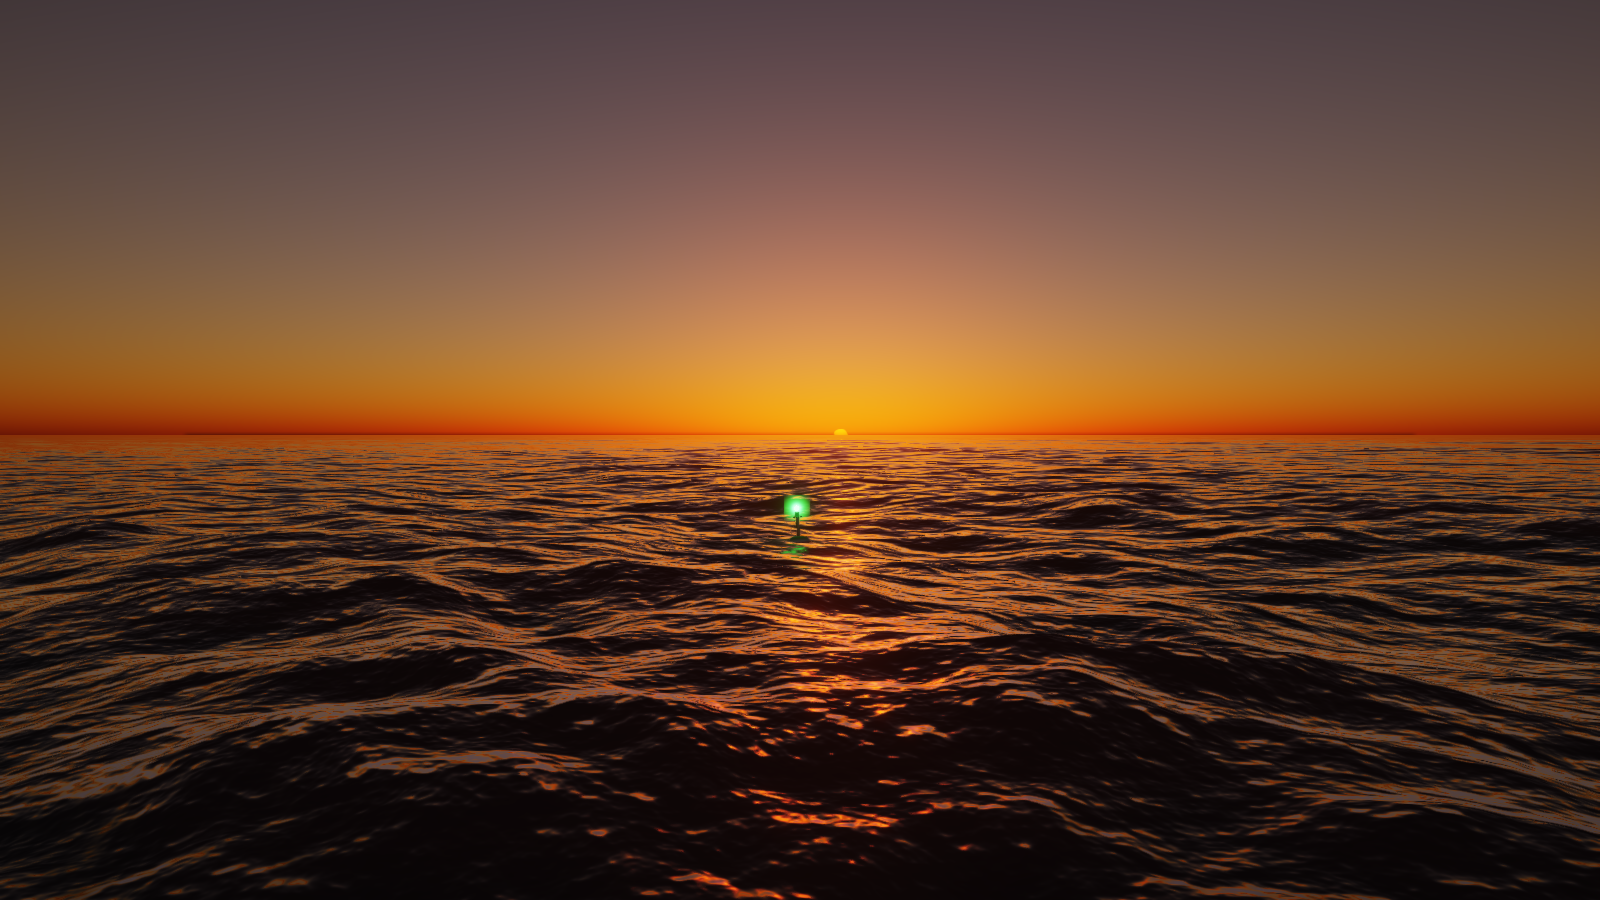
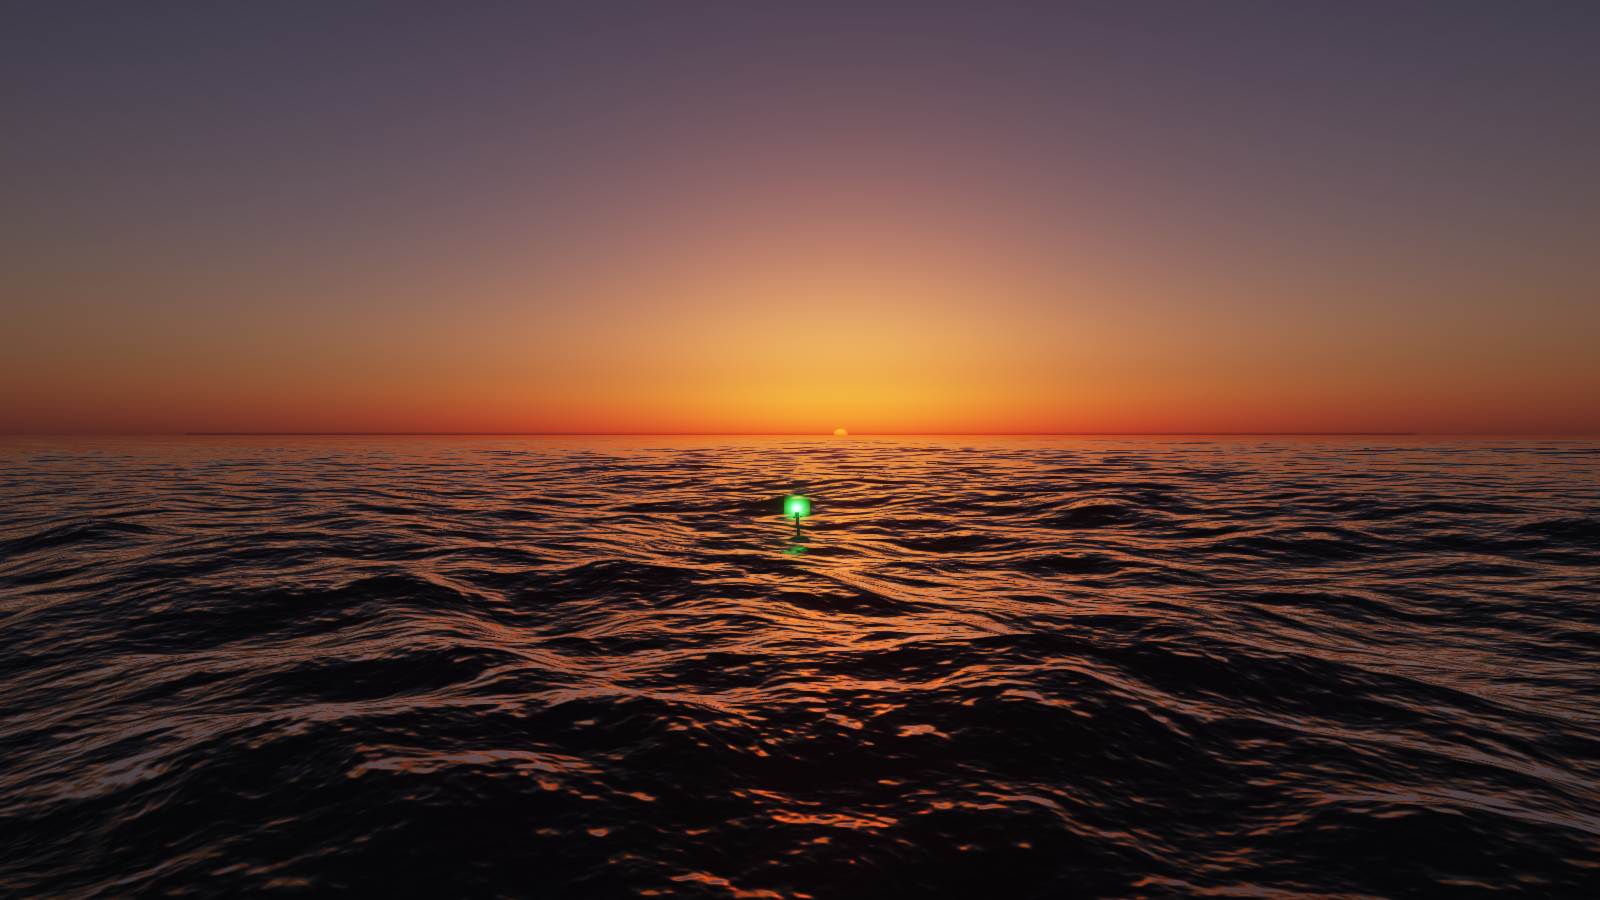
+Realism: Darken the sky opposite the sun(Opus5.5)
Introduce a thin haze layer aloft and optional multiple-scattering LUT to darken the sky opposite the sun (Earth's shadow / anti-twilight). Changes include:

- README + new screenshot showing Earth's shadow.
- Sky.hlsl: add AloftDensity, extend OpticalDepth to vec4, AloftBeta/Extinction, multi-scatter LUT generator (CSMsLut), MultiScatterPsi and incorporate aloft & multi-scatter into MarchScattering.
- Ocean.hlsl: sample sky at adjusted height/mip for horizon under low sun.
- App.cpp: extend TimePreset with aloft/multiScatter, update ExtraTransmittance to include aloft, wire sky params, add EXIT button, update sunset preset.
- GpuContext.h/Sky.h/Sky.cpp: allocate msLut, new descriptor slots, create PSO for LUT, manage resource state and dispatch generation before sky cube bake.

Purpose: produce more realistic dusk/twilight (dusky opposite-sun sky and muted anti-twilight) by modeling an upper aerosol layer and adding multi-scatter contribution.

diff --git a/src/App.cpp b/src/App.cpp
@@ -142,7 +142,9 @@ namespace
         float moonElev, moonAz;
         float exposure;
         float haze = 1.0f;      // aerosol (Mie) turbidity multiplier
-        float lowSun = 0.0f;    // horizon-sun optics: ozone, refraction, scintillation
+        float lowSun = 0.0f;    // horizon-sun optics: ozone, refraction, scintillation,
+                                // multiple scattering in the sky
+        float aloft = 0.0f;     // haze layer aloft (~4 km): peak scattering at 550 nm, 1/m
     };
     const TimePreset kTimes[] = {
         { "Early morning", 3.5f, 14.0f, -40.0f, 0.0f, 1.35f },
@@ -151,8 +153,11 @@ namespace
         { "Afternoon", 35.0f, -26.0f, -40.0f, 0.0f, 0.85f },
         { "Evening", 8.0f, 8.0f, -40.0f, 0.0f, 1.25f },
         // Disc centre on the horizon: half the sun has set. Its light crosses
-        // ~40 air masses of hazy maritime air, which is where the red comes from.
-        { "Sunset", 0.0f, 3.0f, -40.0f, 0.0f, 0.8f, 3.0f, 1.0f },
+        // ~40 air masses of hazy maritime air, which is where the red comes
+        // from. A haze layer aloft (~4 km, AOD 0.06; ~0.08 in all, typical
+        // over the sea) keeps the sky opposite the sun dusky: the light that
+        // reaches it skims the planet straight through that layer.
+        { "Sunset", 0.0f, 3.0f, -40.0f, 0.0f, 0.8f, 3.0f, 1.0f, 2.0e-5f },
         { "Late evening", -5.5f, 5.0f, 21.0f, -22.0f, 3.0f },
         { "Night", -30.0f, 0.0f, 43.0f, 12.0f, 5.0f },
     };
@@ -220,16 +225,20 @@ namespace
     // the same spherical atmosphere Sky.hlsl marches (so the sun and the sky
     // around it redden together): aerosol beyond the baseline haze ((haze - 1)
     // x BetaM, 1.2 km scale height, Angstrom exponent 1.3 = Sky.hlsl
-    // kHazeSpectrum) and ozone's Chappuis band (tent layer at 10-40 km). Both
-    // are negligible for a high sun; at the horizon the path through them is
-    // hundreds of kilometres long.
-    XMFLOAT3 ExtraTransmittance(float elevDeg, float haze, float ozone)
+    // kHazeSpectrum), the haze layer aloft (Gaussian about 4 km, Angstrom 1.0
+    // = Sky.hlsl AloftDensity / kAloftSpectrum) and ozone's Chappuis band
+    // (tent layer at 10-40 km). All are negligible for a high sun; at the
+    // horizon the path through them is hundreds of kilometres long.
+    XMFLOAT3 ExtraTransmittance(float elevDeg, const TimePreset& tp)
     {
-        if (haze <= 1.0f && ozone <= 0.0f)
+        const float haze = tp.haze, ozone = tp.lowSun, aloft = tp.aloft;
+        if (haze <= 1.0f && ozone <= 0.0f && aloft <= 0.0f)
             return XMFLOAT3(1.0f, 1.0f, 1.0f);
         const double Re = 6371e3, Ra = 6431e3, Hm = 1200.0;
         const double hazeSpectrum[3] = { 0.76, 1.0, 1.34 };
+        const double aloftSpectrum[3] = { 0.81, 1.0, 1.25 };
         const double betaM = 4.5e-6 * 1.1 * (haze - 1.0);
+        const double betaF = 1.1 * double(aloft);
         const double betaO[3] = { 0.650e-6 * ozone, 1.881e-6 * ozone, 0.085e-6 * ozone };
         double e = XMConvertToRadians(std::max(elevDeg, 0.0f));
         double dx = std::cos(e), dy = std::sin(e);
@@ -237,18 +246,22 @@ namespace
         double b = oy * dy;
         double tMax = -b + std::sqrt(b * b - (oy * oy - Ra * Ra));
         const int kSteps = 2000;
-        double dt = tMax / kSteps, odM = 0.0, odO = 0.0;
+        double dt = tMax / kSteps, odM = 0.0, odO = 0.0, odF = 0.0;
         for (int i = 0; i < kSteps; ++i)
         {
             double t = (i + 0.5) * dt;
             double px = dx * t, py = oy + dy * t;
             double h = std::sqrt(px * px + py * py) - Re;
             odM += std::exp(-h / Hm) * dt;
+            double xa = (h - 4000.0) / 1500.0;
+            odF += std::exp(-xa * xa) * dt;
             odO += std::max(0.0, 1.0 - std::abs(h - 25000.0) / 15000.0) * dt;
         }
-        return XMFLOAT3(float(std::exp(-betaM * hazeSpectrum[0] * odM - betaO[0] * odO)),
-                        float(std::exp(-betaM * hazeSpectrum[1] * odM - betaO[1] * odO)),
-                        float(std::exp(-betaM * hazeSpectrum[2] * odM - betaO[2] * odO)));
+        auto T = [&](int c)
+        {
+            return float(std::exp(-betaM * hazeSpectrum[c] * odM - betaF * aloftSpectrum[c] * odF - betaO[c] * odO));
+        };
+        return XMFLOAT3(T(0), T(1), T(2));
     }
 
     XMFLOAT3 Mul(XMFLOAT3 a, XMFLOAT3 b) { return XMFLOAT3(a.x * b.x, a.y * b.y, a.z * b.z); }
@@ -574,7 +587,7 @@ void App::UpdateLighting()
     // The moon takes over only once the whole sun disc is below the horizon.
     bool moonPrimary = tp.sunElev < -kSunDiscRadiusDeg;
 
-    XMFLOAT3 tSun = Mul(Transmittance(tp.sunElev), ExtraTransmittance(tp.sunElev, tp.haze, tp.lowSun));
+    XMFLOAT3 tSun = Mul(Transmittance(tp.sunElev), ExtraTransmittance(tp.sunElev, tp));
     XMFLOAT3 tMoon = Transmittance(tp.moonElev);
 
     sunShimmer = 0.0f;
@@ -589,10 +602,10 @@ void App::UpdateLighting()
         // A sun cut by the horizon lights the sea with only its visible part.
         float vis = DiscVisibleFraction(tp.sunElev, kSunDiscRadiusDeg);
         lightColor = XMFLOAT3(sunPower * vis * tSun.x, sunPower * vis * tSun.y, sunPower * vis * tSun.z);
-        // At the horizon the disc is dimmed so far that it is exposed close to
-        // the sky around it: a golden-orange disc, not a clipped white blob.
-        float disc = 1.0f + (0.35f - 1.0f) * tp.lowSun;
-        sunDiscColor = XMFLOAT3(420.0f * disc * tSun.x, 415.0f * disc * tSun.y, 405.0f * disc * tSun.z);
+        // A horizon sun needs no special exposure: the hazy air dims and
+        // reddens its disc to about the sky around it, so it shows as an
+        // orange disc graded to red at the waterline, not a clipped white blob.
+        sunDiscColor = XMFLOAT3(420.0f * tSun.x, 415.0f * tSun.y, 405.0f * tSun.z);
 
         if (tp.lowSun > 0.0f)
         {
@@ -603,7 +616,7 @@ void App::UpdateLighting()
             // Air mass falls steeply across the disc: its upper limb shines
             // brighter and yellower than the red lower edge. Optical-depth
             // change per disc radius, upward.
-            XMFLOAT3 tUp = Mul(Transmittance(tp.sunElev + r), ExtraTransmittance(tp.sunElev + r, tp.haze, tp.lowSun));
+            XMFLOAT3 tUp = Mul(Transmittance(tp.sunElev + r), ExtraTransmittance(tp.sunElev + r, tp));
             auto dTau = [](float up, float c) { return std::log(std::max(up, 1e-30f) / std::max(c, 1e-30f)); };
             sunTauGrad = XMFLOAT3(dTau(tUp.x, tSun.x), dTau(tUp.y, tSun.y), dTau(tUp.z, tSun.z));
             sunShimmer = tp.lowSun;
@@ -627,6 +640,8 @@ void App::UpdateLighting()
     skyParams.haze = tp.haze;
     skyParams.ozone = tp.lowSun;
     skyParams.cloudSunlit = tp.lowSun;
+    skyParams.aloft = tp.aloft;
+    skyParams.multiScatter = tp.lowSun;
 
     starIntensity = std::clamp((-tp.sunElev - 3.0f) / 6.0f, 0.0f, 1.0f);
     exposureBase = tp.exposure;
@@ -1034,6 +1049,10 @@ void App::BuildUi(float dt)
         requestFullscreenToggle = true;
     if (fullscreenPushed)
         ImGui::PopStyleColor(3);
+    ImGui::SameLine();
+    // Same exit as Esc: the main loop sees WM_QUIT once this frame is done.
+    if (ImGui::Button("EXIT"))
+        PostQuitMessage(0);
     ImGui::Separator();
 
     // Applied to every section header below, this frame only.

diff --git a/src/Sky.cpp b/src/Sky.cpp
@@ -13,6 +13,7 @@ namespace
         XMFLOAT3 moonDir; float moonI;
         float cloudCover; float res; uint32_t mipSrc; float pad;
         float haze; float ozone; float cloudSunlit; float pad2;
+        float aloft; float multiScatter; float pad3[2];
     };
 }
 
@@ -66,11 +67,33 @@ void Sky::Create(GpuContext& ctx, uint32_t resolution)
     u0.Texture2DArray.ArraySize = 6;
     ctx.Dev()->CreateUnorderedAccessView(cube.Get(), nullptr, &u0, ctx.SrvCpu(DescSlot::SkyGenUav));
 
+    // Multiple-scattering LUT. Each view goes into both slots of its pair, so
+    // a table bound at the pair's start reaches it as register 3.
+    msLut = ctx.CreateTexture2D(kMsLutSize, kMsLutSize, DXGI_FORMAT_R16G16B16A16_FLOAT,
+        D3D12_RESOURCE_FLAG_ALLOW_UNORDERED_ACCESS, D3D12_RESOURCE_STATE_UNORDERED_ACCESS,
+        1, 1, L"SkyMsLut");
+    msInSrvState = false;
+    for (uint32_t k = 0; k < 2; ++k)
+    {
+        D3D12_UNORDERED_ACCESS_VIEW_DESC lu = {};
+        lu.Format = DXGI_FORMAT_R16G16B16A16_FLOAT;
+        lu.ViewDimension = D3D12_UAV_DIMENSION_TEXTURE2D;
+        ctx.Dev()->CreateUnorderedAccessView(msLut.Get(), nullptr, &lu, ctx.SrvCpu(DescSlot::SkyMsUav + k));
+
+        D3D12_SHADER_RESOURCE_VIEW_DESC ls = {};
+        ls.Shader4ComponentMapping = D3D12_DEFAULT_SHADER_4_COMPONENT_MAPPING;
+        ls.Format = DXGI_FORMAT_R16G16B16A16_FLOAT;
+        ls.ViewDimension = D3D12_SRV_DIMENSION_TEXTURE2D;
+        ls.Texture2D.MipLevels = 1;
+        ctx.Dev()->CreateShaderResourceView(msLut.Get(), &ls, ctx.SrvCpu(DescSlot::SkyMsSrv + k));
+    }
+
     if (!psoGen)
     {
         std::wstring file = ctx.ShaderPath(L"Sky.hlsl");
         psoGen = ctx.CreateComputePso(ctx.CompileShader(file, "CSSkyGen", "cs_5_0").Get(), L"SkyGen");
         psoMip = ctx.CreateComputePso(ctx.CompileShader(file, "CSSkyMip", "cs_5_0").Get(), L"SkyMip");
+        psoMs = ctx.CreateComputePso(ctx.CompileShader(file, "CSMsLut", "cs_5_0").Get(), L"SkyMsLut");
 
         ComPtr<ID3DBlob> vs = ctx.CompileShader(file, "VSSky", "vs_5_0");
         ComPtr<ID3DBlob> ps = ctx.CompileShader(file, "PSSky", "ps_5_0");
@@ -106,13 +129,31 @@ void Sky::RecordGenerate(GpuContext& ctx, const Params& params)
     cb.haze = params.haze;
     cb.ozone = params.ozone;
     cb.cloudSunlit = params.cloudSunlit;
+    cb.aloft = params.aloft;
+    cb.multiScatter = params.multiScatter;
 
     cmd->SetComputeRootSignature(ctx.computeRS.Get());
-    cmd->SetPipelineState(psoGen.Get());
     void* p = nullptr;
     D3D12_GPU_VIRTUAL_ADDRESS va = ctx.AllocUpload(sizeof(SkyCB), &p);
     memcpy(p, &cb, sizeof(SkyCB));
     cmd->SetComputeRootConstantBufferView(0, va);
+
+    // The multiple-scattering LUT depends only on the atmosphere, not on the
+    // view: rebuild it first, then the cube march samples it.
+    if (params.multiScatter > 0.0f)
+    {
+        if (msInSrvState)
+            ctx.Transition(msLut.Get(), D3D12_RESOURCE_STATE_NON_PIXEL_SHADER_RESOURCE, D3D12_RESOURCE_STATE_UNORDERED_ACCESS);
+        cmd->SetPipelineState(psoMs.Get());
+        cmd->SetComputeRootDescriptorTable(6, ctx.SrvGpu(DescSlot::SkyMsUav));
+        cmd->Dispatch(kMsLutSize, kMsLutSize, 1);
+        ctx.Transition(msLut.Get(), D3D12_RESOURCE_STATE_UNORDERED_ACCESS, D3D12_RESOURCE_STATE_NON_PIXEL_SHADER_RESOURCE);
+        msInSrvState = true;
+    }
+
+    cmd->SetPipelineState(psoGen.Get());
+    if (msInSrvState)
+        cmd->SetComputeRootDescriptorTable(5, ctx.SrvGpu(DescSlot::SkyMsSrv));
     cmd->SetComputeRootDescriptorTable(6, ctx.SrvGpu(DescSlot::SkyGenUav));
     cmd->Dispatch((res + 7) / 8, (res + 7) / 8, 6);
 

diff --git a/src/Sky.h b/src/Sky.h
@@ -19,6 +19,8 @@ public:
         float haze = 1.0f;        // aerosol (Mie) turbidity multiplier
         float ozone = 0.0f;       // Chappuis-band absorption, 0 = off, 1 = standard column
         float cloudSunlit = 0.0f; // 1 = cirrus lit by the sunlight transmitted to its altitude
+        float aloft = 0.0f;       // haze layer aloft (~4 km): peak scattering at 550 nm, 1/m
+        float multiScatter = 0.0f; // 1 = add multiple scattering (LUT pass)
     };
 
     void Create(GpuContext& ctx, uint32_t resolution);
@@ -31,10 +33,14 @@ public:
     void Draw(GpuContext& ctx, D3D12_GPU_VIRTUAL_ADDRESS frameCB);
 
 private:
+    static constexpr uint32_t kMsLutSize = 32; // = kMsLutSize in Sky.hlsl
+
     ComPtr<ID3D12Resource> cube;
-    ComPtr<ID3D12PipelineState> psoGen, psoMip, psoDraw;
+    ComPtr<ID3D12Resource> msLut; // multiple-scattering LUT (altitude x sun angle)
+    ComPtr<ID3D12PipelineState> psoGen, psoMip, psoDraw, psoMs;
     uint32_t res = 128;
     uint32_t mips = 8;
     bool dirty = true;
     bool inSrvState = false;
+    bool msInSrvState = false;
 };

diff --git a/src/GpuContext.h b/src/GpuContext.h
@@ -37,6 +37,11 @@ namespace DescSlot
     constexpr uint32_t SkyMipSrv = 84;     // per mip m: SRV of mip m-1
     constexpr uint32_t SkyMipUav = 96;     // per mip m: UAV of mip m
     constexpr uint32_t ImGuiFont = 110;
+    // Sky multiple-scattering LUT, read as t3 / written as u3: each pair
+    // holds the same view twice so a table bound at the pair's start maps
+    // register 3 onto it.
+    constexpr uint32_t SkyMsUav = 112;     // 2 slots
+    constexpr uint32_t SkyMsSrv = 116;     // 2 slots
     // Ocean cascade mip generation: per (cascade c, map t in {disp, deriv,
     // foam}, mip m >= 1): SRV of mip m-1 and UAV of mip m, stride 16 mips.
     constexpr uint32_t OceanMipSrv = 128;  // + (c*3 + t)*16 + (m-1)

diff --git a/README.md b/README.md
@@ -11,8 +11,8 @@ navigation buoy that bobs on the waves.
 | Evening, sea state 4 | Morning, sea state 7 |
 | ![Night](screenshots/night_moon.png) | ![Late evening](screenshots/late_evening_ui.png) |
 | Night (moonlight), sea state 6 | Late evening + control panel |
-| ![Sunset](screenshots/sunset.png) | |
-| Sunset, sea state 3 | |
+| ![Sunset](screenshots/sunset.png) | ![Earth's shadow](screenshots/sunset_shadow.png) |
+| Sunset, sea state 3 | Sunset, looking away from the sun: Earth's shadow |
 | ![Meteorite](screenshots/meteor_streak.png) | ![Impact rings](screenshots/meteor_rings.png) |
 | Meteorite falling toward the water | Impact rings spreading past the buoy |
 
@@ -37,10 +37,15 @@ navigation buoy that bobs on the waves.
   The same cubemap lights the ocean and buoy (reflections + ambient)
 - **Sunset**: the sun sits half below the horizon, its light crossing ~40 air
   masses of hazy maritime air. The reddening is physical, not a filter: the
-  same atmosphere gains spectral aerosol haze (Angstrom exponent 1.3) and an
-  ozone layer (Chappuis-band absorption), and the sun's colour is integrated
-  through that atmosphere, so sky, sun, sea reflections, glints, foam and the
-  buoy all turn red-orange together. The disc is refraction-flattened, graded
+  same atmosphere gains spectral aerosol haze (Angstrom exponent 1.3), a haze
+  layer aloft (~4 km) and an ozone layer (Chappuis-band absorption), the sky
+  adds multiple scattering (Hillaire 2020: a 32x32 LUT built in a compute
+  pass), and the sun's colour is integrated through that atmosphere, so sky,
+  sun, sea reflections, glints, foam and the buoy all turn red-orange
+  together. Opposite the sun the sky is dusky, as it should be: the light that
+  reaches that air skims the planet through the haze, so the Earth's shadow
+  darkens the horizon, under a dim pink anti-twilight arch (the Belt of
+  Venus) and a violet sky fed by multiply scattered light. The disc is refraction-flattened, graded
   from a yellow-orange upper limb to a red waterline by the air-mass change
   across it, and its limb "boils" in the turbulent air; cirrus is lit by the
   sunlight that reaches its altitude. On the water, glints are bounded by the
